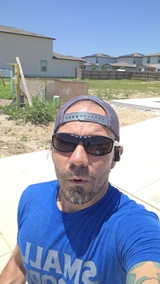
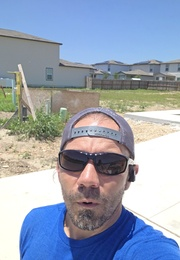
Add files via upload

diff --git a/TGR-Newsletter-Vol6.html b/TGR-Newsletter-Vol6.html
@@ -150,8 +150,18 @@
       <p style="font-size:15px;line-height:1.75;color:#4a4a44;margin:0 0 14px 0;">The most powerful and least talked about local program. HAP provides direct grants of up to $30,000 to income-qualified buyers purchasing within San Antonio city limits. Not a loan. Doesn't affect your credit. Doesn't need to be repaid as long as you stay in the home for five years. HAP funding is allocated annually and can run out mid-year, so if this fits your situation start the process now.</p>
 
       <p style="font-size:15px;line-height:1.75;color:#4a4a44;margin:0 0 18px 0;">The thing most buyers don't know is that several of these programs can be stacked together. A TSAHC grant covering the FHA down payment combined with a HAP grant covering closing costs can get a buyer to closing day with essentially nothing out of pocket. Hit the link below for the full breakdown including real examples, eligibility rules, and how to get started.</p>
-      <img class="full-img" src="https://raw.githubusercontent.com/ThatGardeningRealtor/cockpit/main/newsletter/vol6-bluetape.jpg" width="400" alt="Chris Drawdy inside a home in San Antonio" style="display:block;width:400px;max-width:100%;margin:0 auto 10px auto;border-radius:2px;">
-      <p style="font-size:13px;line-height:1.65;color:#888888;margin:0 0 14px 0;font-style:italic;text-align:center;">I'm in homes every week walking buyers through what to look for, what to ask, and how to make the most of every program available to them. If you've been told you can't afford a home in San Antonio, let's have that conversation first.</p>
+      <table width="100%" cellpadding="0" cellspacing="0" border="0" style="margin-bottom:14px;">
+        <tr>
+          <td valign="middle" style="padding-right:20px;">
+            <p style="font-size:14px;line-height:1.75;color:#4a4a44;margin:0 0 12px 0;">I'm in homes every week walking buyers through what to look for, what to ask, and how to make the most of every program available to them.</p>
+            <p style="font-size:14px;line-height:1.75;color:#4a4a44;margin:0 0 12px 0;">If you've been told you can't afford a home in San Antonio, let's have that conversation first before you write anything off. A 15 minute call has changed a lot of timelines.</p>
+            <p style="font-size:14px;line-height:1.75;color:#4a4a44;margin:0;">The programs exist. The funding is available right now. The only missing piece is knowing which one fits your situation and having someone who can put it all together for you.</p>
+          </td>
+          <td valign="middle" width="180" style="text-align:center;">
+            <img src="https://raw.githubusercontent.com/ThatGardeningRealtor/cockpit/main/newsletter/vol6-bluetape.jpg" width="160" alt="Chris Drawdy inside a home in San Antonio" style="display:block;width:160px;margin:0 auto;border-radius:2px;">
+          </td>
+        </tr>
+      </table>
     </td>
   </tr>
 
@@ -183,8 +193,18 @@
       <p style="font-family:Arial,sans-serif;font-size:10px;letter-spacing:3px;text-transform:uppercase;color:#8ab840;font-weight:700;margin:0 0 6px 0;">For Buyers</p>
       <p style="font-family:Arial,sans-serif;font-size:20px;font-weight:800;color:#1a2e10;margin:0 0 12px 0;line-height:1.25">Not Sure Which Program Fits Your Situation?</p>
       <p style="font-size:15px;line-height:1.75;color:#4a4a44;margin:0 0 14px 0;">I can walk you through all three programs in a single conversation. Income, credit score, target neighborhood, whether you've owned before. All of it. No pressure, just clarity. And in the meantime, set up your personal property search and start seeing what's available in the neighborhoods these programs cover.</p>
-      <img class="full-img" src="https://raw.githubusercontent.com/ThatGardeningRealtor/cockpit/main/newsletter/vol6-street.jpg" width="400" alt="Chris Drawdy in a San Antonio new construction neighborhood" style="display:block;width:400px;max-width:100%;margin:0 auto 10px auto;border-radius:2px;">
-      <p style="font-size:13px;line-height:1.65;color:#888888;margin:0 0 14px 0;font-style:italic;text-align:center;">Out in the field this week in one of San Antonio's newest communities.</p>
+      <table width="100%" cellpadding="0" cellspacing="0" border="0" style="margin-bottom:14px;">
+        <tr>
+          <td valign="middle" width="180" style="text-align:center;padding-right:20px;">
+            <img src="https://raw.githubusercontent.com/ThatGardeningRealtor/cockpit/main/newsletter/vol6-street.jpg" width="160" alt="Chris Drawdy in a San Antonio new construction neighborhood" style="display:block;width:160px;margin:0 auto;border-radius:2px;">
+          </td>
+          <td valign="middle">
+            <p style="font-size:14px;line-height:1.75;color:#4a4a44;margin:0 0 12px 0;">Out in the field this week walking one of San Antonio's newest communities. These neighborhoods are exactly where DPA programs make the biggest difference.</p>
+            <p style="font-size:14px;line-height:1.75;color:#4a4a44;margin:0 0 12px 0;">Set up your personal property search and start seeing what's available right now. Browse every active listing, save your favorites, and get new properties that match what you're after straight to your inbox the moment they go live.</p>
+            <p style="font-size:14px;line-height:1.75;color:#4a4a44;margin:0;">The more you use it the better I can dial in exactly what you're looking for.</p>
+          </td>
+        </tr>
+      </table>
       <table cellpadding="0" cellspacing="0" border="0">
         <tr>
           <td bgcolor="#2c4a1e" style="padding:13px 28px;">